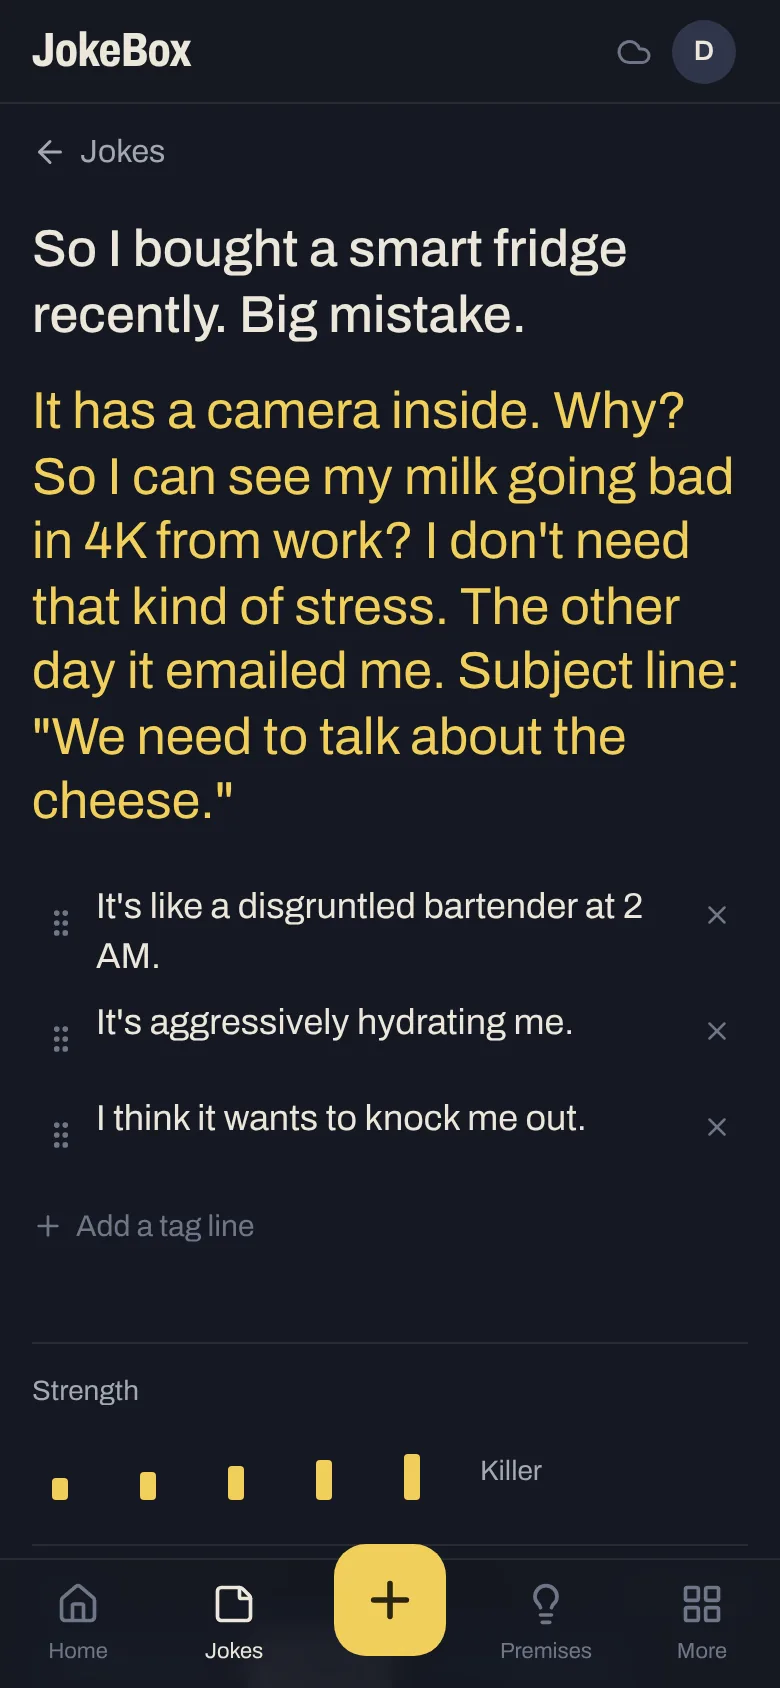
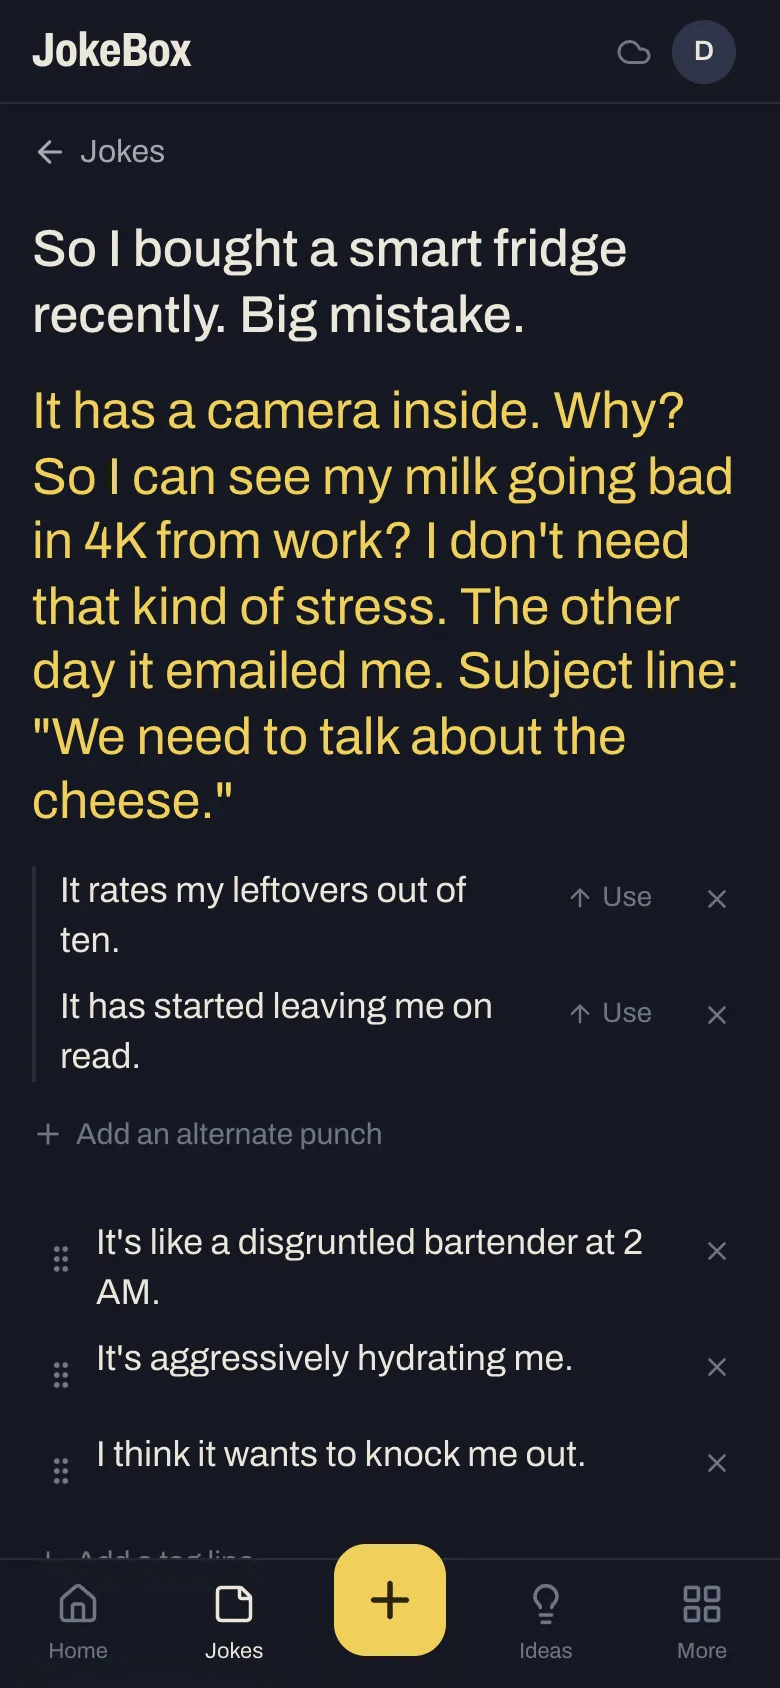
feat(jokes): alternate punches kept under the punchline (#137)
## What changed
- **Alternate punches** on a joke: other endings for the same setup, between the punchline and the tag lines, on the joke page and in the New joke sheet. Add as many as you like. **Use** makes one the punchline and puts the old punchline in its row, so nothing is lost and Use again swaps back.
- `jokes.alt_punchlines` (migration `0036`), a JSON list like `tag_lines`. A save that leaves the field out keeps what is stored, the same rule as `voice_note_ids`.
- Search finds alternates (Jokes list, global search, the connector's `search_jokes`), and `get_jokes` returns `alt_punchlines`. The contract test and the tool table in `docs/api.md` are updated together.
- Rows left empty are no longer sent in a joke's save.

## Why
Trying a different ending meant overwriting the punchline or parking the old one in notes. Alternates keep every ending side by side, with a one-tap swap.

The empty-row change fixes a bug found while testing, which tag lines already had: add a row, wait about three seconds without typing, and the row disappeared with the cursor, because the server drops blank rows and its copy replaced the draft.

## What it must not break
- A phone still running the previous build, or a save waiting in the offline queue, sends no `alt_punchlines`. The server then keeps the stored ones (tested), so an older app never wipes them.
- A joke cached before this change has no such field; the editor sends none until the fresh copy arrives (tested).
[…]

diff --git a/web/src/features/jokes/PunchAlternates.tsx b/web/src/features/jokes/PunchAlternates.tsx
@@ -1,0 +1,58 @@
+/**
+ * Alternate punches: other endings for the same setup, kept under the punchline in use so trying
+ * a new one never costs the old one. They sit between the punchline and the tag lines, on the
+ * joke's page and in New joke.
+ *
+ * "Use" swaps one in (swapPunch): it becomes the punchline and the punchline it replaced takes
+ * its row, so nothing is lost and Use on that row swaps them back.
+ */
+import { ArrowUp, Plus, X } from 'lucide-react'
+import { useState } from 'react'
+import { GrowingText } from '../../components/ui/Field'
+import { swapPunch } from './punch'
+
+interface Props {
+  punchline: string
+  alternates: string[]
+  onChange: (patch: { punchline?: string; alt_punchlines: string[] }) => void
+}
+
+export function PunchAlternates({ punchline, alternates, onChange }: Props) {
+  // The row made by the Add button takes the cursor, so you can type straight away.
+  const [added, setAdded] = useState<number | null>(null)
+  const set = (alt_punchlines: string[]) => onChange({ alt_punchlines })
+  const add = () => {
+    setAdded(alternates.length)
+    set([...alternates, ''])
+  }
+  const remove = (i: number) => {
+    setAdded(null)
+    set(alternates.filter((_, n) => n !== i))
+  }
+  const quiet = 'hit relative inline-flex h-8 shrink-0 items-center justify-center rounded-md text-faint hover:text-paper'
+
+  return (
+    <div className="space-y-2">
+      {alternates.length > 0 && (
+        <ul aria-label="Alternate punches" className="space-y-2 border-l-2 border-rule pl-3">
+          {alternates.map((text, i) => (
+            <li key={i} className="flex items-start gap-2">
+              <GrowingText autoFocus={i === added} aria-label={`Alternate punch ${i + 1}`} placeholder="Or it ends like this…" className="text-lg leading-snug text-dim" value={text}
+                onChange={(e) => set(alternates.map((a, n) => (n === i ? e.target.value : a)))} />
+              <button type="button" disabled={!text.trim()} title="Make this the punchline. The current one moves down here." aria-label={`Use alternate punch ${i + 1} as the punchline`}
+                onClick={() => { setAdded(null); onChange(swapPunch(punchline, alternates, i)) }} className={`${quiet} gap-1 px-2 text-sm hover:text-tape disabled:pointer-events-none disabled:opacity-40`}>
+                <ArrowUp size={14} /> Use
+              </button>
+              <button type="button" aria-label={`Remove alternate punch ${i + 1}`} onClick={() => remove(i)} className={`${quiet} size-8`}>
+                <X size={15} />
+              </button>
+            </li>
+          ))}
+        </ul>
+      )}
+      <button type="button" onClick={add} className="inline-flex h-9 items-center gap-1.5 text-[15px] text-faint hover:text-tape">
+        <Plus size={16} /> Add an alternate punch
+      </button>
+    </div>
+  )
+}

diff --git a/web/src/features/capture/NewJokeForm.tsx b/web/src/features/capture/NewJokeForm.tsx
@@ -22,6 +22,7 @@ import { GrowingText, Textarea } from '../../components/ui/Field'
 import { Modal } from '../../components/ui/Modal'
 import { useFeedback } from '../../components/ui/feedbackContext'
 import { JokeDetails } from '../jokes/JokeDetails'
+import { PunchAlternates } from '../jokes/PunchAlternates'
 import { TagLines } from '../jokes/TagLines'
 import { ObservationPicker } from '../observations/ObservationPicker'
 import { VoiceNotesOn } from '../voice/VoiceNotesOn'
@@ -99,7 +100,8 @@ export function NewJokeForm({ prefill, plain, onClose }: { prefill: Prefill; pla
           )
         }
       : undefined
-    const id = capture({ ...input, tag_lines: input.tag_lines.filter((t) => t.trim()) }, { open, onSaved })
+    const full = (lines: string[] = []) => lines.filter((t) => t.trim())
+    const id = capture({ ...input, tag_lines: full(input.tag_lines), alt_punchlines: full(input.alt_punchlines) }, { open, onSaved })
     if (!id) return
     // Queued after the joke's save, so they reach the server in order (offline too). One deleted
     // since it was picked (a kept draft can be days old) is skipped, not sent to fail.
@@ -131,6 +133,7 @@ export function NewJokeForm({ prefill, plain, onClose }: { prefill: Prefill; pla
           <div className="h-px bg-rule" />
           <GrowingText aria-label="Punchline" placeholder="The punchline" className="text-xl leading-snug text-tape placeholder:text-faint" value={draft.punchline}
             onChange={(e) => update({ punchline: e.target.value })} />
+          <PunchAlternates punchline={draft.punchline} alternates={draft.alt_punchlines ?? []} onChange={update} />
           <TagLines lines={draft.tag_lines} onChange={(tag_lines) => update({ tag_lines })} />
         </div>
 

diff --git a/web/src/features/jokes/JokePage.tsx b/web/src/features/jokes/JokePage.tsx
@@ -1,5 +1,6 @@
 /**
- * One joke, one page. The words are edited in place (no form popup), then where it came from
+ * One joke, one page. The words are edited in place (no form popup): setup, punchline, alternate
+ * punches (PunchAlternates) and tag lines. Then where it came from
  * (observations, see ObservationsOn; voice notes, see VoiceNotesOn), its details, its rewrites
  * and sets. Every change saves
  * on its own, offline included.
@@ -18,6 +19,7 @@ import { VoiceNotesOn } from '../voice/VoiceNotesOn'
 import { JokeDetails } from './JokeDetails'
 import { JokeExtras } from './JokeExtras'
 import { JokeShowRecord } from './JokeShowRecord'
+import { PunchAlternates } from './PunchAlternates'
 import { TagLines } from './TagLines'
 import { useAutosaveJoke } from './useAutosaveJoke'
 
@@ -48,6 +50,7 @@ function Editor({ joke }: { joke: Joke }) {
           onChange={(e) => update({ punchline: e.target.value })} />
         {!draft.setup.trim() && <p className="mt-2 text-sm text-light">A joke needs a setup to be saved.</p>}
       </div>
+      <div className="mt-4"><PunchAlternates punchline={draft.punchline} alternates={draft.alt_punchlines ?? []} onChange={update} /></div>
       <div className="mt-6"><TagLines lines={draft.tag_lines} onChange={(tag_lines) => update({ tag_lines })} /></div>
       <div className="mt-8 space-y-6">
         <ObservationsOn kind="jokes" id={joke.id} topicId={draft.topic_id} />

diff --git a/web/src/features/jokes/useAutosaveJoke.test.ts b/web/src/features/jokes/useAutosaveJoke.test.ts
@@ -1,7 +1,7 @@
 /** An open joke editor takes a newer copy of the joke only while nothing's been typed. */
 import { describe, expect, it } from 'vitest'
 import type { JokeInput } from '../../api/types'
-import { followNewer } from './useAutosaveJoke'
+import { followNewer, toSend } from './useAutosaveJoke'
 
 const input = (setup: string, version = 1) => ({ setup, punchline: 'A made-up punchline', version }) as unknown as JokeInput
 
@@ -23,5 +23,18 @@ describe('an open joke editor', () => {
     const typed = input('Typed made-up setup')
     const answered = input('Typed made-up setup', 2)
     expect(followNewer(typed, input('Typed made-up setup', 1), answered, false)).toBe(answered)
+  })
+})
+
+describe('what an edit sends', () => {
+  const draft = (extra: Partial<JokeInput>) => ({ ...input('A made-up setup'), tag_lines: [], ...extra }) as JokeInput
+
+  it('leaves out rows still empty, and keeps the rest in order', () => {
+    const sent = toSend(draft({ tag_lines: ['one', ' ', 'two'], alt_punchlines: ['', 'Made-up other ending'] }))
+    expect([sent.tag_lines, sent.alt_punchlines]).toEqual([['one', 'two'], ['Made-up other ending']])
+  })
+
+  it('sends no alternates for a joke cached before they existed, so the server keeps its own', () => {
+    expect('alt_punchlines' in toSend(draft({}))).toBe(false)
   })
 })

diff --git a/web/src/features/jokes/useAutosaveJoke.ts b/web/src/features/jokes/useAutosaveJoke.ts
@@ -15,6 +15,19 @@ export function toInput(b: Joke): JokeInput {
   return input
 }
 
+const filled = (lines: string[]) => lines.filter((l) => l.trim())
+
+/**
+ * The draft as it's sent: rows left empty (a tag line or alternate punch just added) stay on
+ * screen but aren't saved. The server drops them anyway, and the copy it then sent back used to
+ * take the empty row away while you were still thinking.
+ */
+export function toSend(draft: JokeInput): JokeInput {
+  const sent = { ...draft, tag_lines: filled(draft.tag_lines) }
+  if (draft.alt_punchlines) sent.alt_punchlines = filled(draft.alt_punchlines)
+  return sent
+}
+
 /** The same words and settings, whatever version each came from. */
 function sameFields(a: JokeInput, b: JokeInput): boolean {
   const keys = new Set([...Object.keys(a), ...Object.keys(b)])
@@ -50,7 +63,7 @@ export function useAutosaveJoke(joke: Joke) {
 
   const flush = () => {
     clearTimeout(timer.current)
-    if (pending.current && pending.current.setup.trim()) mutate.current({ id: joke.id, input: pending.current })
+    if (pending.current && pending.current.setup.trim()) mutate.current({ id: joke.id, input: toSend(pending.current) })
     pending.current = null
   }
 

diff --git a/web/src/features/jokes/punch.test.ts b/web/src/features/jokes/punch.test.ts
@@ -1,0 +1,17 @@
+import { describe, expect, it } from 'vitest'
+import { swapPunch } from './punch'
+
+describe('swapPunch', () => {
+  it('trades the alternate with the punchline, in the same row', () => {
+    expect(swapPunch('Made-up first', ['a', 'Made-up second', 'c'], 1)).toEqual({ punchline: 'Made-up second', alt_punchlines: ['a', 'Made-up first', 'c'] })
+  })
+
+  it('swaps back when used again', () => {
+    const once = swapPunch('Made-up first', ['Made-up second'], 0)
+    expect(swapPunch(once.punchline, once.alt_punchlines, 0)).toEqual({ punchline: 'Made-up first', alt_punchlines: ['Made-up second'] })
+  })
+
+  it('just moves the alternate up when there is no punchline yet', () => {
+    expect(swapPunch('  ', ['Made-up only', 'b'], 0)).toEqual({ punchline: 'Made-up only', alt_punchlines: ['b'] })
+  })
+})

diff --git a/web/src/features/search/searchIndex.ts b/web/src/features/search/searchIndex.ts
@@ -54,7 +54,7 @@ const q = (query: string) => encodeURIComponent(query.trim())
 
 const KINDS: Kind<unknown>[] = [
   kind<Joke>({
-    kind: 'Jokes', items: (l) => l.jokes, texts: (j) => [j.setup, j.punchline, j.comments, ...j.tag_lines], tags: (j) => j.hashtags,
+    kind: 'Jokes', items: (l) => l.jokes, texts: (j) => [j.setup, j.punchline, j.comments, ...j.tag_lines, ...(j.alt_punchlines ?? [])], tags: (j) => j.hashtags,
     title: (j) => j.setup, body: (j) => [j.punchline, ...j.tag_lines, j.comments].join(' '), to: (j) => `/jokes/${j.id}`,
   }),
   kind<Premise>({ kind: 'Premises', items: (l) => l.premises, texts: (p) => [p.take, p.notes], title: (p) => p.take, body: (p) => p.notes, to: (p) => `/premises/${p.id}` }),

diff --git a/web/src/features/capture/keptDraft.ts b/web/src/features/capture/keptDraft.ts
@@ -44,9 +44,9 @@ export function forgetDraft(): void {
   }
 }
 
-/** Has anything been typed: words, tag lines, notes or a brainstorm. */
+/** Has anything been typed: words, alternate punches, tag lines, notes or a brainstorm. */
 export const hasText = ({ draft, brainstorm }: KeptDraft): boolean =>
-  [draft.setup, draft.punchline, draft.comments, brainstorm, ...draft.tag_lines].some((t) => t.trim().length > 0)
+  [draft.setup, draft.punchline, draft.comments, brainstorm, ...draft.tag_lines, ...(draft.alt_punchlines ?? [])].some((t) => t.trim().length > 0)
 
 export interface Start extends KeptDraft {
   observationIds: string[]

diff --git a/web/src/features/jokes/useJokeFilters.ts b/web/src/features/jokes/useJokeFilters.ts
@@ -29,7 +29,7 @@ export const sortDate = (sort: SortKey): ((b: Joke) => string) | null =>
 export function matchesSearch(joke: Joke, q: string): boolean {
   if (!q) return true
   const needle = q.toLowerCase()
-  return [joke.setup, joke.punchline, joke.comments, ...joke.hashtags, ...joke.tag_lines].some((t) => t.toLowerCase().includes(needle))
+  return [joke.setup, joke.punchline, joke.comments, ...joke.hashtags, ...joke.tag_lines, ...(joke.alt_punchlines ?? [])].some((t) => t.toLowerCase().includes(needle))
 }
 
 export function matchesPremise(joke: Joke, premise: string | null): boolean {

diff --git a/web/src/features/jokes/punch.ts b/web/src/features/jokes/punch.ts
@@ -1,0 +1,9 @@
+/**
+ * Using an alternate punch: it becomes the punchline and the punchline it replaced takes its
+ * row, so nothing is lost and doing it again swaps them back. With no punchline yet, the
+ * alternate just moves up and its row goes.
+ */
+export function swapPunch(punchline: string, alternates: string[], i: number): { punchline: string; alt_punchlines: string[] } {
+  const rest = punchline.trim() ? alternates.map((a, n) => (n === i ? punchline : a)) : alternates.filter((_, n) => n !== i)
+  return { punchline: alternates[i], alt_punchlines: rest }
+}

diff --git a/web/src/api/types.ts b/web/src/api/types.ts
@@ -53,6 +53,8 @@ export interface JokeInput {
   duration_seconds: number
   hashtags: string[]
   tag_lines: string[]
+  /** Other punchlines for the same setup. Optional like voice_note_ids: left out, they're kept. */
+  alt_punchlines?: string[]
   clean_rating: CleanRating | null
   language: string | null
   comments: string

diff --git a/web/src/features/capture/newJoke.ts b/web/src/features/capture/newJoke.ts
@@ -24,6 +24,7 @@ export const blankJoke = (topicId = ''): JokeInput => ({
   duration_seconds: DEFAULT_RUNTIME,
   hashtags: [],
   tag_lines: [],
+  alt_punchlines: [],
   clean_rating: 'clean',
   language: 'Hinglish',
   comments: '',
